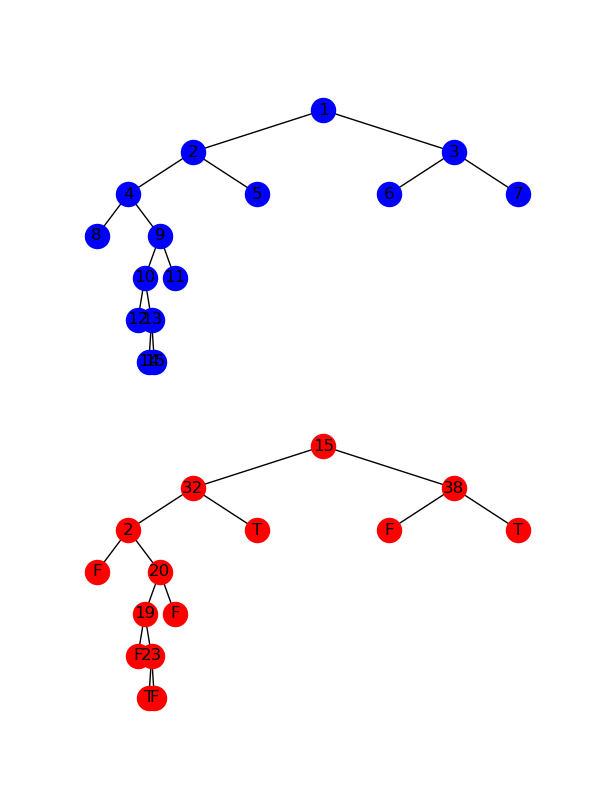
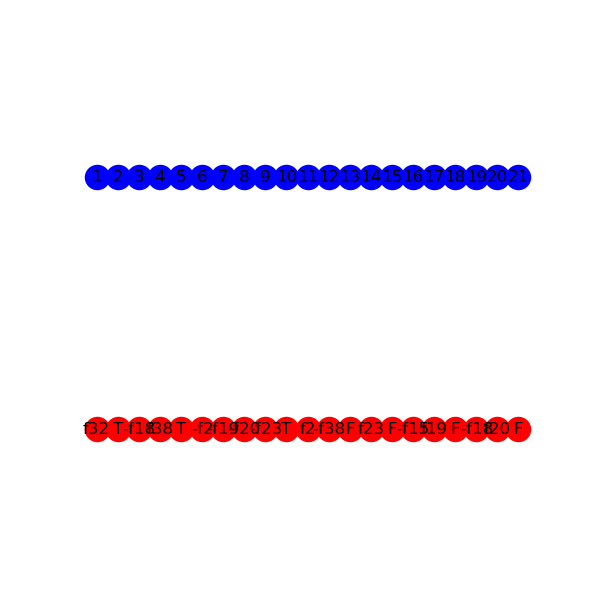
Add files via upload

diff --git a/util/DSSolver.py b/util/DSSolver.py
@@ -201,10 +201,26 @@ class DSSolver():
 
                 for j in range(1, self.N + 1):
                     or_f = []
+                    f1 = []
+                    f1.append(self.get_cnf_id(self.var_l[j]))
+
                     for f in range(1, self.K+1):
                         or_f.append(self.get_cnf_id(self.var_S[j, f]))
-                    aaa = [self.ids2var[abs(jj)] if jj > 0 else '-' + self.ids2var[abs(jj)] for jj in or_f ]
+                        f1.append(self.get_cnf_id(self.var_S[j, f]))
+
+                    self.clause.append(f1)
+                   # aaa = [self.ids2var[abs(jj)] if jj > 0 else '-' + self.ids2var[abs(jj)] for jj in or_f ]
                  #   print('\nj:', j, aaa)
+
+                    for a in range(len(or_f)):
+                        for b in range(a+1, len(or_f)):
+                            new_f = []
+                            new_f.append(self.get_cnf_id(self.var_l[j]))
+                            new_f.append(-or_f[a])
+                            new_f.append(-or_f[b])
+                            self.clause.append(new_f)
+
+                    ''' Old method (Expensive)
                     for a in range(2, len(or_f) + 1):
                         for b in itertools.combinations(or_f, r=a):
                             new_f = or_f.copy()
@@ -215,6 +231,7 @@ class DSSolver():
                             self.clause.append(new_f)
                             bbb = [self.ids2var[abs(jj)] if jj > 0 else '-' + self.ids2var[abs(jj)] for jj in new_f ]
                          #   print('a:', a, 'j:', j, bbb)
+                     '''
             cons_5a(self)
             cons_5b(self)
 
@@ -293,7 +310,7 @@ class DSSolver():
         cons_2(self)
         cons_3(self)
         cons_4(self)
-        cons_5(self)
+        cons_5(self) # Problem constraint 5b
         cons_6(self)
         cons_7(self)
         cons_8(self)

diff --git a/solve_3.py b/solve_3.py
@@ -68,8 +68,8 @@ def data_processing(file_name):
 
 # max_nodes = 9 # It means minimun literals is 9
 #filename = "weather.csv"
-#filename = "mouse-un.csv"
-filename = "test.csv"
+filename = "mouse-un.csv"
+#filename = "test.csv"
 
 #feature_names, feature_vars, data_features, data_classes = data_processing(filename)
 #print(feature_names)
@@ -86,8 +86,10 @@ if __name__ == "__main__":
     data = (data_features, data_classes)
   #  num_literal = 1 #The number of decision nodes
  #   N = num_literal * 2 + 1
-    N = 4
+    N = 21
     found = False
+  #  DDS_solver = DSSolver(K, N, data)
+    #DDS_solver.encode_constraints()
 
     while not found:
         DDS_solver = DSSolver(K, N, data)
@@ -99,7 +101,7 @@ if __name__ == "__main__":
             ds = DS(K, N)
             ds.parse_solution(sol)
             ds.generate_tree()
-          #  ds.validate(data_features, data_classes)
+            ds.validate(data_features, data_classes)
             ds.draw(1, filename[:-4])
          #   print("data feature:",data_features)
          #   print("data class:" , data_classes)

diff --git a/solve.py b/solve.py
@@ -69,17 +69,17 @@ def data_processing(file_name):
 
 
 # max_nodes = 9 # It means minimun literals is 9
-filename = "weather.csv"
-#filename = "mouse-un.csv"
+#filename = "weather.csv"
+filename = "mouse-un.csv"
 
-feature_names, feature_vars, data_features, data_classes = data_processing(filename)
-print(feature_names)
-print(feature_vars)
-print(data_features)
-print(data_classes)
+#feature_names, feature_vars, data_features, data_classes = data_processing(filename)
+#print(feature_names)
+#print(feature_vars)
+#print(data_features)
+#print(data_classes)
 
 
-'''
+
 if __name__ == "__main__":
     feature_names, feature_vars, data_features, data_classes = data_processing(filename)
     K = data_features.shape[1]
@@ -124,4 +124,3 @@ if __name__ == "__main__":
         print("The minimun number of decision sets is {0}".format(num_literal))
     else:
         print("Solution not found when the maximum number of decision sets is 99")
-'''

diff --git a/util/DecisionSet.py b/util/DecisionSet.py
@@ -55,6 +55,7 @@ class DS():
                 if node[0].lower().startswith('f'):
                     node_f = int(node[0][1:])
                     if pre_leaf:
+                        pre_leaf = False
                         if f[node_f - 1] == node_value:
                             pre_match = True
                         else:
@@ -67,8 +68,7 @@ class DS():
                     assert node[0].lower().strip() == 'class'
                     pre_leaf = True
                     if pre_match:
-                        print(c)
-                        assert c == node_value, 'Wrong Solution'
+                        assert c == node_value, 'Wrong solution'
 
 
 

diff --git a/Test.py b/Test.py
@@ -121,6 +121,19 @@ def draw2(N=12, cnt=2):
 
 draw2()
 '''
+#Exactly one
+import pycosat
+
+a = [1,2,3,4,5,6]
+clause = []
+clause.append(a)
+
+for i in range(len(a)):
+    for j in range(i+1, len(a)):
+        clause.append([-a[i], -a[j]])
+
+for s in pycosat.itersolve(clause):
+    print(s)
 
 
 
